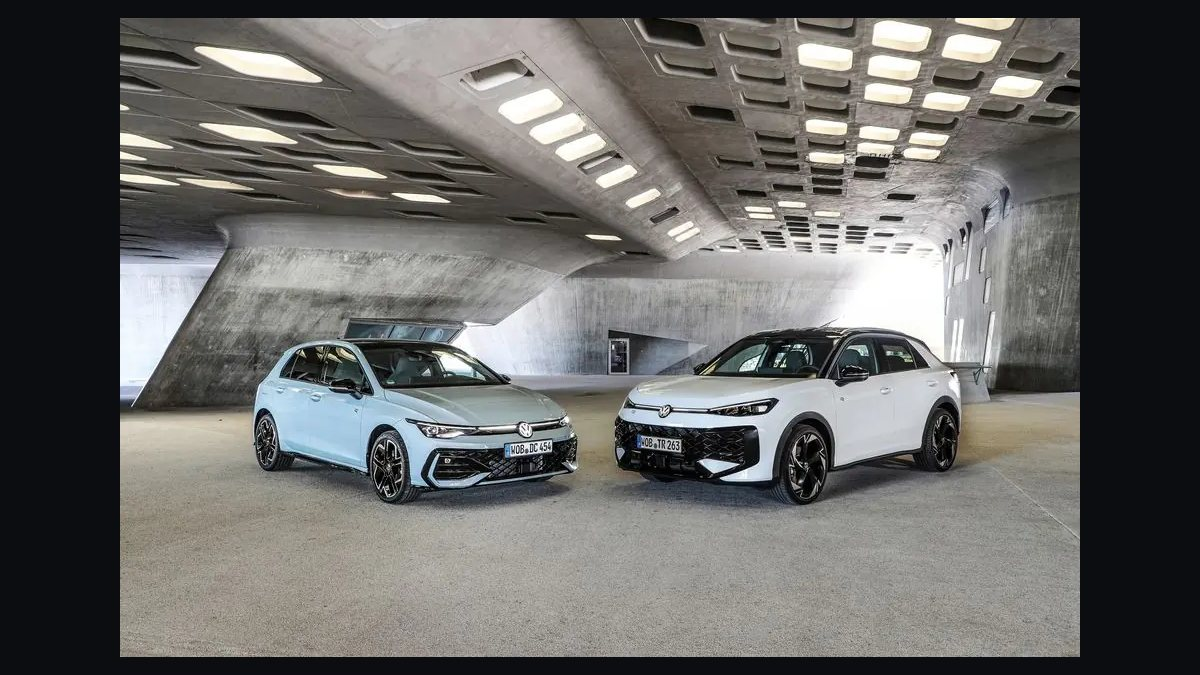
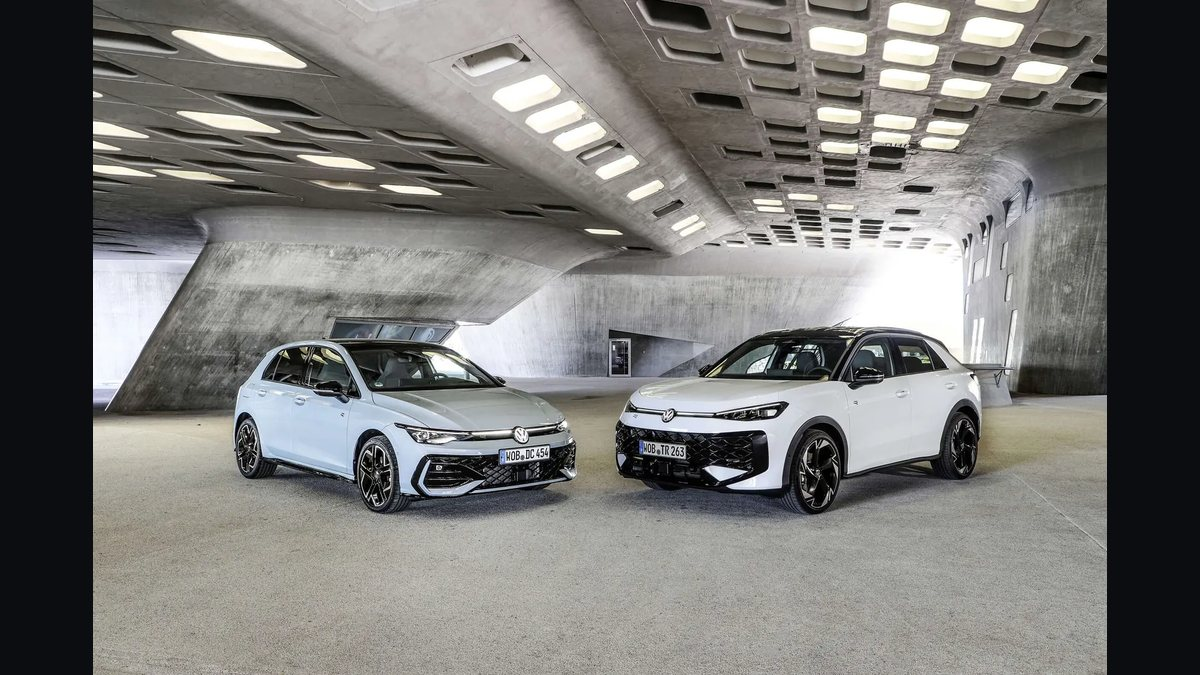
VW Golf Hybrid: pressbilden i full upplösning från Volkswagen Newsroom (DB2026AU00398, 2400 px)

diff --git a/artikel/volkswagen-golf-hybrid-pris-id-golf-pausas/index.html b/artikel/volkswagen-golf-hybrid-pris-id-golf-pausas/index.html
@@ -13,12 +13,12 @@
 <meta property="og:title" content="Golf blir hybrid för 373 900 kronor. Samtidigt lägger VW eldrivna Golf på is">
 <meta property="og:description" content="Golf och T-Roc kommer som fullhybrider i Sverige med lägre fordonsskatt, samtidigt som VW pausar utvecklingen av eldrivna ID. Golf.">
 <meta property="og:url" content="https://motorpuls.se/artikel/volkswagen-golf-hybrid-pris-id-golf-pausas/">
-<meta property="og:image" content="https://motorpuls.se/img/articles/volkswagen-golf-hybrid-pris-id-golf-pausas/vw-golf-t-roc-hybrid-press.webp">
-<meta property="og:image:type" content="image/webp">
-<meta property="og:image:width" content="960">
-<meta property="og:image:height" content="639">
+<meta property="og:image" content="https://motorpuls.se/img/og/volkswagen-golf-hybrid-pris-id-golf-pausas-hel.jpg">
+<meta property="og:image:type" content="image/jpeg">
+<meta property="og:image:width" content="1200">
+<meta property="og:image:height" content="630">
 <meta property="og:image:alt" content="Volkswagen Golf Hybrid och T-Roc Hybrid, pressbild från Volkswagen.">
-<meta name="twitter:image" content="https://motorpuls.se/img/articles/volkswagen-golf-hybrid-pris-id-golf-pausas/vw-golf-t-roc-hybrid-press.webp">
+<meta name="twitter:image" content="https://motorpuls.se/img/og/volkswagen-golf-hybrid-pris-id-golf-pausas-hel.jpg">
 <meta name="twitter:image:alt" content="Volkswagen Golf Hybrid och T-Roc Hybrid, pressbild från Volkswagen.">
 <meta name="twitter:card" content="summary_large_image">
 <meta name="twitter:title" content="Golf blir hybrid för 373 900 kronor. Samtidigt lägger VW eldrivna Golf på is">
@@ -433,7 +433,7 @@ transition:color .18s var(--ease),text-decoration-color .18s var(--ease)}
 <link rel="alternate" type="application/rss+xml" title="Motorpuls: Bränsle" href="/feed/bransle.xml">
 <link rel="preload" href="/fonts/newsreader-var.woff2" as="font" type="font/woff2" crossorigin>
 <link rel="preload" href="/fonts/archivo-var.woff2" as="font" type="font/woff2" crossorigin>
-<link rel="preload" as="image" href="/img/articles/volkswagen-golf-hybrid-pris-id-golf-pausas/vw-golf-t-roc-hybrid-press.webp" imagesrcset="/img/articles/volkswagen-golf-hybrid-pris-id-golf-pausas/vw-golf-t-roc-hybrid-press.webp 960w" imagesizes="(min-width: 66rem) 62rem, calc(100vw - 2.5rem)" fetchpriority="high">
+<link rel="preload" as="image" href="/img/articles/volkswagen-golf-hybrid-pris-id-golf-pausas/vw-golf-t-roc-hybrid-press.webp" imagesrcset="/img/articles/volkswagen-golf-hybrid-pris-id-golf-pausas/vw-golf-t-roc-hybrid-press-400.webp 400w, /img/articles/volkswagen-golf-hybrid-pris-id-golf-pausas/vw-golf-t-roc-hybrid-press-800.webp 800w, /img/articles/volkswagen-golf-hybrid-pris-id-golf-pausas/vw-golf-t-roc-hybrid-press.webp 1600w" imagesizes="(min-width: 66rem) 62rem, calc(100vw - 2.5rem)" fetchpriority="high">
 <style>/* Nyhetsbrevsrutan i sidfoten (förhandsvisning, NEWSLETTER_BOX i build.py). Laddas bara när flaggan är på.
    Smälter in: mörk panel var(--surface) med 1px hårlinje var(--line), orange bara som accent (2px topplinje, etikett i
    pulse-text #FF8A5C 6,6:1, orange knapp med mörk text 6,3:1, orange fokusring). Typografi som sidfoten (sans, text-2 #C3CAD1 10:1,
@@ -493,7 +493,7 @@ transition:color .18s var(--ease),text-decoration-color .18s var(--ease)}
 <meta property="article:tag" content="ID. Golf">
 <meta property="article:tag" content="fordonsskatt">
 <meta property="article:tag" content="priser">
-<script type="application/ld+json">{"@context": "https://schema.org", "@type": "NewsArticle", "headline": "Golf blir hybrid för 373 900 kronor. Samtidigt lägger VW eldrivna Golf på is", "description": "Golf och T-Roc kommer som fullhybrider i Sverige med lägre fordonsskatt, samtidigt som VW pausar utvecklingen av eldrivna ID. Golf.", "datePublished": "2026-11-03T12:00:00+01:00", "dateModified": "2026-11-03T12:00:00+01:00", "inLanguage": "sv-SE", "articleSection": "Bränsle", "keywords": ["Volkswagen", "Golf", "T-Roc", "hybrid", "ID. Golf", "fordonsskatt", "priser"], "mainEntityOfPage": {"@type": "WebPage", "@id": "https://motorpuls.se/artikel/volkswagen-golf-hybrid-pris-id-golf-pausas/"}, "url": "https://motorpuls.se/artikel/volkswagen-golf-hybrid-pris-id-golf-pausas/", "author": {"@type": "Person", "name": "Lukas", "url": "https://motorpuls.se/om/lukas/"}, "publisher": {"@type": "NewsMediaOrganization", "@id": "https://motorpuls.se/#organization", "name": "Motorpuls", "url": "https://motorpuls.se/", "email": "hello@motorpuls.se", "logo": {"@type": "ImageObject", "url": "https://motorpuls.se/favicon/android-chrome-512.png", "width": 512, "height": 512}, "publishingPrinciples": "https://motorpuls.se/om/"}, "image": [{"@type": "ImageObject", "url": "https://motorpuls.se/img/articles/volkswagen-golf-hybrid-pris-id-golf-pausas/vw-golf-t-roc-hybrid-press.webp", "width": 960, "height": 639, "caption": "Volkswagen Golf Hybrid och T-Roc Hybrid, pressbild från Volkswagen.", "creditText": "Volkswagen AG", "copyrightNotice": "Copyright Volkswagen AG. Pressbild, fri för redaktionell användning (Volkswagen Newsroom, bild DB2026AU00398, även i Volkswagen Personbilars pressmeddelande 30 oktober 2026 via Via TT). Får inte användas kommersiellt eller lämnas vidare. Används oförändrad. Villkor: https://www.volkswagen-newsroom.com/en/terms-of-service-35"}], "citation": ["https://via.tt.se/pressmeddelande/4606540/elektrifiering-pa-ett-enkelt-satt-volkswagen-erbjuder-ny-fullhybriddrivlina-for-golf-och-t-roc?lang=sv&publisherId=1995691", "https://www.ndr.de/nachrichten/niedersachsen/braunschweig_harz_goettingen/vw-kommt-es-zu-verzoegerungen-beim-elektrischen-golf,vw-1676.html", "https://www.nachrichten.at/wirtschaft/vw-stoppt-vorerst-entwicklung-des-idgolf-koennen-uns-das-nicht-leisten;art15,4227401", "https://www.vibilagare.se/nyheter/priserna-klara-volkswagen-golf-och-t-roc-som-hybrider"]}</script>
+<script type="application/ld+json">{"@context": "https://schema.org", "@type": "NewsArticle", "headline": "Golf blir hybrid för 373 900 kronor. Samtidigt lägger VW eldrivna Golf på is", "description": "Golf och T-Roc kommer som fullhybrider i Sverige med lägre fordonsskatt, samtidigt som VW pausar utvecklingen av eldrivna ID. Golf.", "datePublished": "2026-11-03T12:00:00+01:00", "dateModified": "2026-11-03T12:00:00+01:00", "inLanguage": "sv-SE", "articleSection": "Bränsle", "keywords": ["Volkswagen", "Golf", "T-Roc", "hybrid", "ID. Golf", "fordonsskatt", "priser"], "mainEntityOfPage": {"@type": "WebPage", "@id": "https://motorpuls.se/artikel/volkswagen-golf-hybrid-pris-id-golf-pausas/"}, "url": "https://motorpuls.se/artikel/volkswagen-golf-hybrid-pris-id-golf-pausas/", "author": {"@type": "Person", "name": "Lukas", "url": "https://motorpuls.se/om/lukas/"}, "publisher": {"@type": "NewsMediaOrganization", "@id": "https://motorpuls.se/#organization", "name": "Motorpuls", "url": "https://motorpuls.se/", "email": "hello@motorpuls.se", "logo": {"@type": "ImageObject", "url": "https://motorpuls.se/favicon/android-chrome-512.png", "width": 512, "height": 512}, "publishingPrinciples": "https://motorpuls.se/om/"}, "image": [{"@type": "ImageObject", "url": "https://motorpuls.se/img/ld/volkswagen-golf-hybrid-pris-id-golf-pausas-16x9-hel.jpg", "width": 1200, "height": 675, "creditText": "Volkswagen AG", "copyrightNotice": "Copyright Volkswagen AG. Pressbild, fri för redaktionell användning (Volkswagen Newsroom, bild DB2026AU00398, även i Volkswagen Personbilars pressmeddelande 30 oktober 2026 via Via TT). Får inte användas kommersiellt eller lämnas vidare. Används oförändrad. Villkor: https://www.volkswagen-newsroom.com/en/terms-of-service-35"}, {"@type": "ImageObject", "url": "https://motorpuls.se/img/articles/volkswagen-golf-hybrid-pris-id-golf-pausas/vw-golf-t-roc-hybrid-press.webp", "width": 1600, "height": 1065, "caption": "Volkswagen Golf Hybrid och T-Roc Hybrid, pressbild från Volkswagen.", "creditText": "Volkswagen AG", "copyrightNotice": "Copyright Volkswagen AG. Pressbild, fri för redaktionell användning (Volkswagen Newsroom, bild DB2026AU00398, även i Volkswagen Personbilars pressmeddelande 30 oktober 2026 via Via TT). Får inte användas kommersiellt eller lämnas vidare. Används oförändrad. Villkor: https://www.volkswagen-newsroom.com/en/terms-of-service-35"}], "citation": ["https://via.tt.se/pressmeddelande/4606540/elektrifiering-pa-ett-enkelt-satt-volkswagen-erbjuder-ny-fullhybriddrivlina-for-golf-och-t-roc?lang=sv&publisherId=1995691", "https://www.ndr.de/nachrichten/niedersachsen/braunschweig_harz_goettingen/vw-kommt-es-zu-verzoegerungen-beim-elektrischen-golf,vw-1676.html", "https://www.nachrichten.at/wirtschaft/vw-stoppt-vorerst-entwicklung-des-idgolf-koennen-uns-das-nicht-leisten;art15,4227401", "https://www.vibilagare.se/nyheter/priserna-klara-volkswagen-golf-och-t-roc-som-hybrider"]}</script>
 <script type="application/ld+json">{"@context": "https://schema.org", "@type": "BreadcrumbList", "itemListElement": [{"@type": "ListItem", "position": 1, "name": "Start", "item": "https://motorpuls.se/"}, {"@type": "ListItem", "position": 2, "name": "Bränsle", "item": "https://motorpuls.se/bransle/"}, {"@type": "ListItem", "position": 3, "name": "Golf blir hybrid för 373 900 kronor. Samtidigt lägger VW eldrivna Golf på is", "item": "https://motorpuls.se/artikel/volkswagen-golf-hybrid-pris-id-golf-pausas/"}]}</script>
 </head>
 <body>
@@ -537,7 +537,7 @@ transition:color .18s var(--ease),text-decoration-color .18s var(--ease)}
         </ul>
       </section>
       <figure class="article__figure article__figure--natural">
-        <div class="frame"><span class="flag flag--hero" role="img" aria-label="Gäller Sverige" title="Gäller Sverige"><svg viewBox="0 0 16 10" width="16" height="10" aria-hidden="true" focusable="false"><rect width="16" height="10" fill="#005293"/><rect x="5" width="2" height="10" fill="#FECB00"/><rect y="4" width="16" height="2" fill="#FECB00"/></svg></span><img src="/img/articles/volkswagen-golf-hybrid-pris-id-golf-pausas/vw-golf-t-roc-hybrid-press.webp" srcset="/img/articles/volkswagen-golf-hybrid-pris-id-golf-pausas/vw-golf-t-roc-hybrid-press.webp 960w" sizes="(min-width: 66rem) 62rem, calc(100vw - 2.5rem)" width="960" height="639" alt="Volkswagen Golf Hybrid och T-Roc Hybrid, pressbild från Volkswagen." fetchpriority="high" decoding="async"></div>
+        <div class="frame"><span class="flag flag--hero" role="img" aria-label="Gäller Sverige" title="Gäller Sverige"><svg viewBox="0 0 16 10" width="16" height="10" aria-hidden="true" focusable="false"><rect width="16" height="10" fill="#005293"/><rect x="5" width="2" height="10" fill="#FECB00"/><rect y="4" width="16" height="2" fill="#FECB00"/></svg></span><img src="/img/articles/volkswagen-golf-hybrid-pris-id-golf-pausas/vw-golf-t-roc-hybrid-press.webp" srcset="/img/articles/volkswagen-golf-hybrid-pris-id-golf-pausas/vw-golf-t-roc-hybrid-press-400.webp 400w, /img/articles/volkswagen-golf-hybrid-pris-id-golf-pausas/vw-golf-t-roc-hybrid-press-800.webp 800w, /img/articles/volkswagen-golf-hybrid-pris-id-golf-pausas/vw-golf-t-roc-hybrid-press.webp 1600w" sizes="(min-width: 66rem) 62rem, calc(100vw - 2.5rem)" width="1600" height="1065" alt="Volkswagen Golf Hybrid och T-Roc Hybrid, pressbild från Volkswagen." fetchpriority="high" decoding="async"></div>
         <figcaption><span>Foto: Volkswagen AG</span></figcaption>
       </figure>
       <div class="article__layout article__col">

diff --git a/index.html b/index.html
@@ -438,7 +438,7 @@ transition:color .18s var(--ease),text-decoration-color .18s var(--ease)}
 <link rel="alternate" type="application/rss+xml" title="Motorpuls: Sverige" href="/feed/sverige.xml">
 <link rel="preload" href="/fonts/newsreader-var.woff2" as="font" type="font/woff2" crossorigin>
 <link rel="preload" href="/fonts/archivo-var.woff2" as="font" type="font/woff2" crossorigin>
-<link rel="preload" as="image" href="/img/articles/volkswagen-golf-hybrid-pris-id-golf-pausas/vw-golf-t-roc-hybrid-press.webp" imagesrcset="/img/articles/volkswagen-golf-hybrid-pris-id-golf-pausas/vw-golf-t-roc-hybrid-press.webp 960w" imagesizes="(min-width: 60rem) 38rem, 100vw" fetchpriority="high">
+<link rel="preload" as="image" href="/img/articles/volkswagen-golf-hybrid-pris-id-golf-pausas/vw-golf-t-roc-hybrid-press.webp" imagesrcset="/img/articles/volkswagen-golf-hybrid-pris-id-golf-pausas/vw-golf-t-roc-hybrid-press-400.webp 400w, /img/articles/volkswagen-golf-hybrid-pris-id-golf-pausas/vw-golf-t-roc-hybrid-press-800.webp 800w, /img/articles/volkswagen-golf-hybrid-pris-id-golf-pausas/vw-golf-t-roc-hybrid-press.webp 1600w" imagesizes="(min-width: 60rem) 38rem, 100vw" fetchpriority="high">
 <style>/* Nyhetsbrevsrutan i sidfoten (förhandsvisning, NEWSLETTER_BOX i build.py). Laddas bara när flaggan är på.
    Smälter in: mörk panel var(--surface) med 1px hårlinje var(--line), orange bara som accent (2px topplinje, etikett i
    pulse-text #FF8A5C 6,6:1, orange knapp med mörk text 6,3:1, orange fokusring). Typografi som sidfoten (sans, text-2 #C3CAD1 10:1,
@@ -504,7 +504,7 @@ transition:color .18s var(--ease),text-decoration-color .18s var(--ease)}
     <div class="hero-grid">
     <article class="lead lead--img">
       <a href="/artikel/volkswagen-golf-hybrid-pris-id-golf-pausas/">
-        <figure class="lead__media"><div class="lead__frame"><span class="flag flag--lead" role="img" aria-label="Gäller Sverige" title="Gäller Sverige"><svg viewBox="0 0 16 10" width="16" height="10" aria-hidden="true" focusable="false"><rect width="16" height="10" fill="#005293"/><rect x="5" width="2" height="10" fill="#FECB00"/><rect y="4" width="16" height="2" fill="#FECB00"/></svg></span><img src="/img/articles/volkswagen-golf-hybrid-pris-id-golf-pausas/vw-golf-t-roc-hybrid-press.webp" srcset="/img/articles/volkswagen-golf-hybrid-pris-id-golf-pausas/vw-golf-t-roc-hybrid-press.webp 960w" sizes="(min-width: 60rem) 38rem, 100vw" width="960" height="639" alt="Volkswagen Golf Hybrid och T-Roc Hybrid, pressbild från Volkswagen." fetchpriority="high" decoding="async"></div><figcaption>Foto: Volkswagen AG</figcaption></figure>
+        <figure class="lead__media"><div class="lead__frame"><span class="flag flag--lead" role="img" aria-label="Gäller Sverige" title="Gäller Sverige"><svg viewBox="0 0 16 10" width="16" height="10" aria-hidden="true" focusable="false"><rect width="16" height="10" fill="#005293"/><rect x="5" width="2" height="10" fill="#FECB00"/><rect y="4" width="16" height="2" fill="#FECB00"/></svg></span><img src="/img/articles/volkswagen-golf-hybrid-pris-id-golf-pausas/vw-golf-t-roc-hybrid-press.webp" srcset="/img/articles/volkswagen-golf-hybrid-pris-id-golf-pausas/vw-golf-t-roc-hybrid-press-400.webp 400w, /img/articles/volkswagen-golf-hybrid-pris-id-golf-pausas/vw-golf-t-roc-hybrid-press-800.webp 800w, /img/articles/volkswagen-golf-hybrid-pris-id-golf-pausas/vw-golf-t-roc-hybrid-press.webp 1600w" sizes="(min-width: 60rem) 38rem, 100vw" width="1600" height="1065" alt="Volkswagen Golf Hybrid och T-Roc Hybrid, pressbild från Volkswagen." fetchpriority="high" decoding="async"></div><figcaption>Foto: Volkswagen AG</figcaption></figure>
         <div class="lead__body">
           <div class="lead__kicker"><span class="hero__label"><span class="pulse-dot" aria-hidden="true"></span>Senaste nytt</span>
           <span class="meta"><span class="tag">Bränsle</span><time datetime="2026-11-03T12:00:00+01:00">3 november 2026</time></span></div>
@@ -577,7 +577,7 @@ transition:color .18s var(--ease),text-decoration-color .18s var(--ease)}
                 <h4>Golf blir hybrid för 373 900 kronor. Samtidigt lägger VW eldrivna Golf på is</h4>
                 <p>Golf och T-Roc kommer som fullhybrider i Sverige med lägre fordonsskatt, samtidigt som VW pausar utvecklingen av eldrivna ID. Golf.</p>
               </div>
-              <figure class="item__img"><span class="flag flag--thumb" role="img" aria-label="Gäller Sverige" title="Gäller Sverige"><svg viewBox="0 0 16 10" width="16" height="10" aria-hidden="true" focusable="false"><rect width="16" height="10" fill="#005293"/><rect x="5" width="2" height="10" fill="#FECB00"/><rect y="4" width="16" height="2" fill="#FECB00"/></svg></span><img src="/img/articles/volkswagen-golf-hybrid-pris-id-golf-pausas/vw-golf-t-roc-hybrid-press.webp" srcset="/img/articles/volkswagen-golf-hybrid-pris-id-golf-pausas/vw-golf-t-roc-hybrid-press.webp 960w" sizes="(min-width: 48rem) 15rem, 6.5rem" width="960" height="639" alt="" loading="lazy" decoding="async"><figcaption class="item__credit">Foto: Volkswagen AG</figcaption></figure>
+              <figure class="item__img"><span class="flag flag--thumb" role="img" aria-label="Gäller Sverige" title="Gäller Sverige"><svg viewBox="0 0 16 10" width="16" height="10" aria-hidden="true" focusable="false"><rect width="16" height="10" fill="#005293"/><rect x="5" width="2" height="10" fill="#FECB00"/><rect y="4" width="16" height="2" fill="#FECB00"/></svg></span><img src="/img/articles/volkswagen-golf-hybrid-pris-id-golf-pausas/vw-golf-t-roc-hybrid-press.webp" srcset="/img/articles/volkswagen-golf-hybrid-pris-id-golf-pausas/vw-golf-t-roc-hybrid-press-400.webp 400w, /img/articles/volkswagen-golf-hybrid-pris-id-golf-pausas/vw-golf-t-roc-hybrid-press-800.webp 800w, /img/articles/volkswagen-golf-hybrid-pris-id-golf-pausas/vw-golf-t-roc-hybrid-press.webp 1600w" sizes="(min-width: 48rem) 15rem, 6.5rem" width="1600" height="1065" alt="" loading="lazy" decoding="async"><figcaption class="item__credit">Foto: Volkswagen AG</figcaption></figure>
             </a>
           </li>
         </ol>

diff --git a/artikel/hvo100-reduktionsplikten-utredning-2031/index.html b/artikel/hvo100-reduktionsplikten-utredning-2031/index.html
@@ -635,7 +635,7 @@ transition:color .18s var(--ease),text-decoration-color .18s var(--ease)}
           <ul class="related__list">
             <li class="related__card">
               <a href="/artikel/volkswagen-golf-hybrid-pris-id-golf-pausas/">
-                <figure class="related__media"><div class="related__frame"><span class="flag flag--thumb" role="img" aria-label="Gäller Sverige" title="Gäller Sverige"><svg viewBox="0 0 16 10" width="16" height="10" aria-hidden="true" focusable="false"><rect width="16" height="10" fill="#005293"/><rect x="5" width="2" height="10" fill="#FECB00"/><rect y="4" width="16" height="2" fill="#FECB00"/></svg></span><img src="/img/articles/volkswagen-golf-hybrid-pris-id-golf-pausas/vw-golf-t-roc-hybrid-press.webp" srcset="/img/articles/volkswagen-golf-hybrid-pris-id-golf-pausas/vw-golf-t-roc-hybrid-press.webp 960w" sizes="(min-width: 40rem) 12rem, 7rem" width="960" height="639" alt="" loading="lazy" decoding="async"></div><figcaption class="item__credit">Foto: Volkswagen AG</figcaption></figure>
+                <figure class="related__media"><div class="related__frame"><span class="flag flag--thumb" role="img" aria-label="Gäller Sverige" title="Gäller Sverige"><svg viewBox="0 0 16 10" width="16" height="10" aria-hidden="true" focusable="false"><rect width="16" height="10" fill="#005293"/><rect x="5" width="2" height="10" fill="#FECB00"/><rect y="4" width="16" height="2" fill="#FECB00"/></svg></span><img src="/img/articles/volkswagen-golf-hybrid-pris-id-golf-pausas/vw-golf-t-roc-hybrid-press-400.webp" srcset="/img/articles/volkswagen-golf-hybrid-pris-id-golf-pausas/vw-golf-t-roc-hybrid-press-400.webp 400w, /img/articles/volkswagen-golf-hybrid-pris-id-golf-pausas/vw-golf-t-roc-hybrid-press-800.webp 800w, /img/articles/volkswagen-golf-hybrid-pris-id-golf-pausas/vw-golf-t-roc-hybrid-press.webp 1600w" sizes="(min-width: 40rem) 12rem, 7rem" width="1600" height="1065" alt="" loading="lazy" decoding="async"></div><figcaption class="item__credit">Foto: Volkswagen AG</figcaption></figure>
                 <div class="related__body">
                   <span class="meta"><span class="tag">Bränsle</span><time datetime="2026-11-03T12:00:00+01:00">3 november 2026</time></span>
                   <h3>Golf blir hybrid för 373 900 kronor. Samtidigt lägger VW eldrivna Golf på is</h3>

diff --git a/artikel/tesla-fsd-sverige-eu-omrostning-december/index.html b/artikel/tesla-fsd-sverige-eu-omrostning-december/index.html
@@ -632,7 +632,7 @@ transition:color .18s var(--ease),text-decoration-color .18s var(--ease)}
             </li>
             <li class="related__card">
               <a href="/artikel/volkswagen-golf-hybrid-pris-id-golf-pausas/">
-                <figure class="related__media"><div class="related__frame"><span class="flag flag--thumb" role="img" aria-label="Gäller Sverige" title="Gäller Sverige"><svg viewBox="0 0 16 10" width="16" height="10" aria-hidden="true" focusable="false"><rect width="16" height="10" fill="#005293"/><rect x="5" width="2" height="10" fill="#FECB00"/><rect y="4" width="16" height="2" fill="#FECB00"/></svg></span><img src="/img/articles/volkswagen-golf-hybrid-pris-id-golf-pausas/vw-golf-t-roc-hybrid-press.webp" srcset="/img/articles/volkswagen-golf-hybrid-pris-id-golf-pausas/vw-golf-t-roc-hybrid-press.webp 960w" sizes="(min-width: 40rem) 12rem, 7rem" width="960" height="639" alt="" loading="lazy" decoding="async"></div><figcaption class="item__credit">Foto: Volkswagen AG</figcaption></figure>
+                <figure class="related__media"><div class="related__frame"><span class="flag flag--thumb" role="img" aria-label="Gäller Sverige" title="Gäller Sverige"><svg viewBox="0 0 16 10" width="16" height="10" aria-hidden="true" focusable="false"><rect width="16" height="10" fill="#005293"/><rect x="5" width="2" height="10" fill="#FECB00"/><rect y="4" width="16" height="2" fill="#FECB00"/></svg></span><img src="/img/articles/volkswagen-golf-hybrid-pris-id-golf-pausas/vw-golf-t-roc-hybrid-press-400.webp" srcset="/img/articles/volkswagen-golf-hybrid-pris-id-golf-pausas/vw-golf-t-roc-hybrid-press-400.webp 400w, /img/articles/volkswagen-golf-hybrid-pris-id-golf-pausas/vw-golf-t-roc-hybrid-press-800.webp 800w, /img/articles/volkswagen-golf-hybrid-pris-id-golf-pausas/vw-golf-t-roc-hybrid-press.webp 1600w" sizes="(min-width: 40rem) 12rem, 7rem" width="1600" height="1065" alt="" loading="lazy" decoding="async"></div><figcaption class="item__credit">Foto: Volkswagen AG</figcaption></figure>
                 <div class="related__body">
                   <span class="meta"><span class="tag">Bränsle</span><time datetime="2026-11-03T12:00:00+01:00">3 november 2026</time></span>
                   <h3>Golf blir hybrid för 373 900 kronor. Samtidigt lägger VW eldrivna Golf på is</h3>

diff --git a/artikel/tesla-model-y-strukturellt-batteri-betyg-d-volvo-ex60/index.html b/artikel/tesla-model-y-strukturellt-batteri-betyg-d-volvo-ex60/index.html
@@ -648,7 +648,7 @@ transition:color .18s var(--ease),text-decoration-color .18s var(--ease)}
             </li>
             <li class="related__card">
               <a href="/artikel/volkswagen-golf-hybrid-pris-id-golf-pausas/">
-                <figure class="related__media"><div class="related__frame"><span class="flag flag--thumb" role="img" aria-label="Gäller Sverige" title="Gäller Sverige"><svg viewBox="0 0 16 10" width="16" height="10" aria-hidden="true" focusable="false"><rect width="16" height="10" fill="#005293"/><rect x="5" width="2" height="10" fill="#FECB00"/><rect y="4" width="16" height="2" fill="#FECB00"/></svg></span><img src="/img/articles/volkswagen-golf-hybrid-pris-id-golf-pausas/vw-golf-t-roc-hybrid-press.webp" srcset="/img/articles/volkswagen-golf-hybrid-pris-id-golf-pausas/vw-golf-t-roc-hybrid-press.webp 960w" sizes="(min-width: 40rem) 12rem, 7rem" width="960" height="639" alt="" loading="lazy" decoding="async"></div><figcaption class="item__credit">Foto: Volkswagen AG</figcaption></figure>
+                <figure class="related__media"><div class="related__frame"><span class="flag flag--thumb" role="img" aria-label="Gäller Sverige" title="Gäller Sverige"><svg viewBox="0 0 16 10" width="16" height="10" aria-hidden="true" focusable="false"><rect width="16" height="10" fill="#005293"/><rect x="5" width="2" height="10" fill="#FECB00"/><rect y="4" width="16" height="2" fill="#FECB00"/></svg></span><img src="/img/articles/volkswagen-golf-hybrid-pris-id-golf-pausas/vw-golf-t-roc-hybrid-press-400.webp" srcset="/img/articles/volkswagen-golf-hybrid-pris-id-golf-pausas/vw-golf-t-roc-hybrid-press-400.webp 400w, /img/articles/volkswagen-golf-hybrid-pris-id-golf-pausas/vw-golf-t-roc-hybrid-press-800.webp 800w, /img/articles/volkswagen-golf-hybrid-pris-id-golf-pausas/vw-golf-t-roc-hybrid-press.webp 1600w" sizes="(min-width: 40rem) 12rem, 7rem" width="1600" height="1065" alt="" loading="lazy" decoding="async"></div><figcaption class="item__credit">Foto: Volkswagen AG</figcaption></figure>
                 <div class="related__body">
                   <span class="meta"><span class="tag">Bränsle</span><time datetime="2026-11-03T12:00:00+01:00">3 november 2026</time></span>
                   <h3>Golf blir hybrid för 373 900 kronor. Samtidigt lägger VW eldrivna Golf på is</h3>

diff --git a/bransle/index.html b/bransle/index.html
@@ -509,7 +509,7 @@ transition:color .18s var(--ease),text-decoration-color .18s var(--ease)}
                 <h2>Golf blir hybrid för 373 900 kronor. Samtidigt lägger VW eldrivna Golf på is</h2>
                 <p>Golf och T-Roc kommer som fullhybrider i Sverige med lägre fordonsskatt, samtidigt som VW pausar utvecklingen av eldrivna ID. Golf.</p>
               </div>
-              <figure class="item__img"><span class="flag flag--thumb" role="img" aria-label="Gäller Sverige" title="Gäller Sverige"><svg viewBox="0 0 16 10" width="16" height="10" aria-hidden="true" focusable="false"><rect width="16" height="10" fill="#005293"/><rect x="5" width="2" height="10" fill="#FECB00"/><rect y="4" width="16" height="2" fill="#FECB00"/></svg></span><img src="/img/articles/volkswagen-golf-hybrid-pris-id-golf-pausas/vw-golf-t-roc-hybrid-press.webp" srcset="/img/articles/volkswagen-golf-hybrid-pris-id-golf-pausas/vw-golf-t-roc-hybrid-press.webp 960w" sizes="(min-width: 48rem) 15rem, 6.5rem" width="960" height="639" alt="" loading="lazy" decoding="async"><figcaption class="item__credit">Foto: Volkswagen AG</figcaption></figure>
+              <figure class="item__img"><span class="flag flag--thumb" role="img" aria-label="Gäller Sverige" title="Gäller Sverige"><svg viewBox="0 0 16 10" width="16" height="10" aria-hidden="true" focusable="false"><rect width="16" height="10" fill="#005293"/><rect x="5" width="2" height="10" fill="#FECB00"/><rect y="4" width="16" height="2" fill="#FECB00"/></svg></span><img src="/img/articles/volkswagen-golf-hybrid-pris-id-golf-pausas/vw-golf-t-roc-hybrid-press.webp" srcset="/img/articles/volkswagen-golf-hybrid-pris-id-golf-pausas/vw-golf-t-roc-hybrid-press-400.webp 400w, /img/articles/volkswagen-golf-hybrid-pris-id-golf-pausas/vw-golf-t-roc-hybrid-press-800.webp 800w, /img/articles/volkswagen-golf-hybrid-pris-id-golf-pausas/vw-golf-t-roc-hybrid-press.webp 1600w" sizes="(min-width: 48rem) 15rem, 6.5rem" width="1600" height="1065" alt="" loading="lazy" decoding="async"><figcaption class="item__credit">Foto: Volkswagen AG</figcaption></figure>
             </a>
           </li>
           <li class="item" data-cat="bransle">
